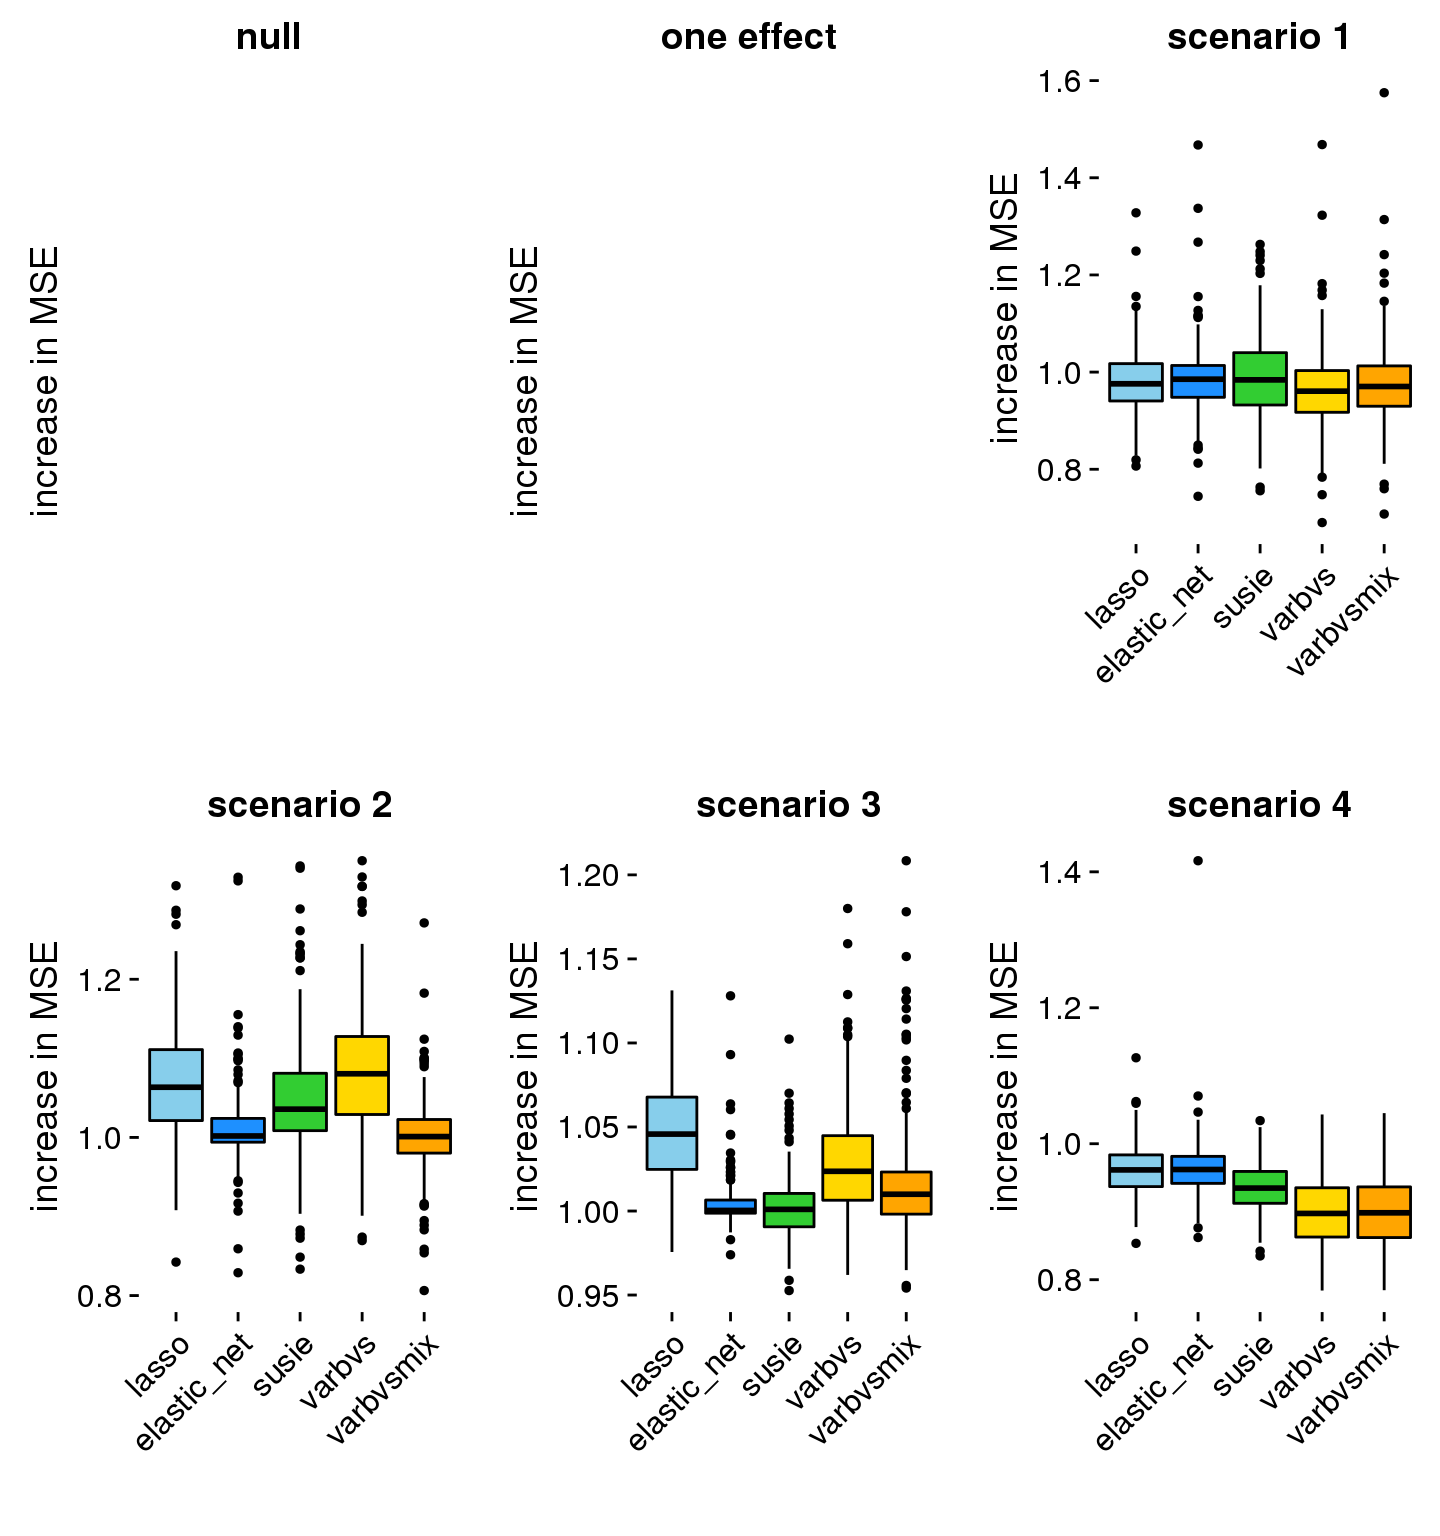
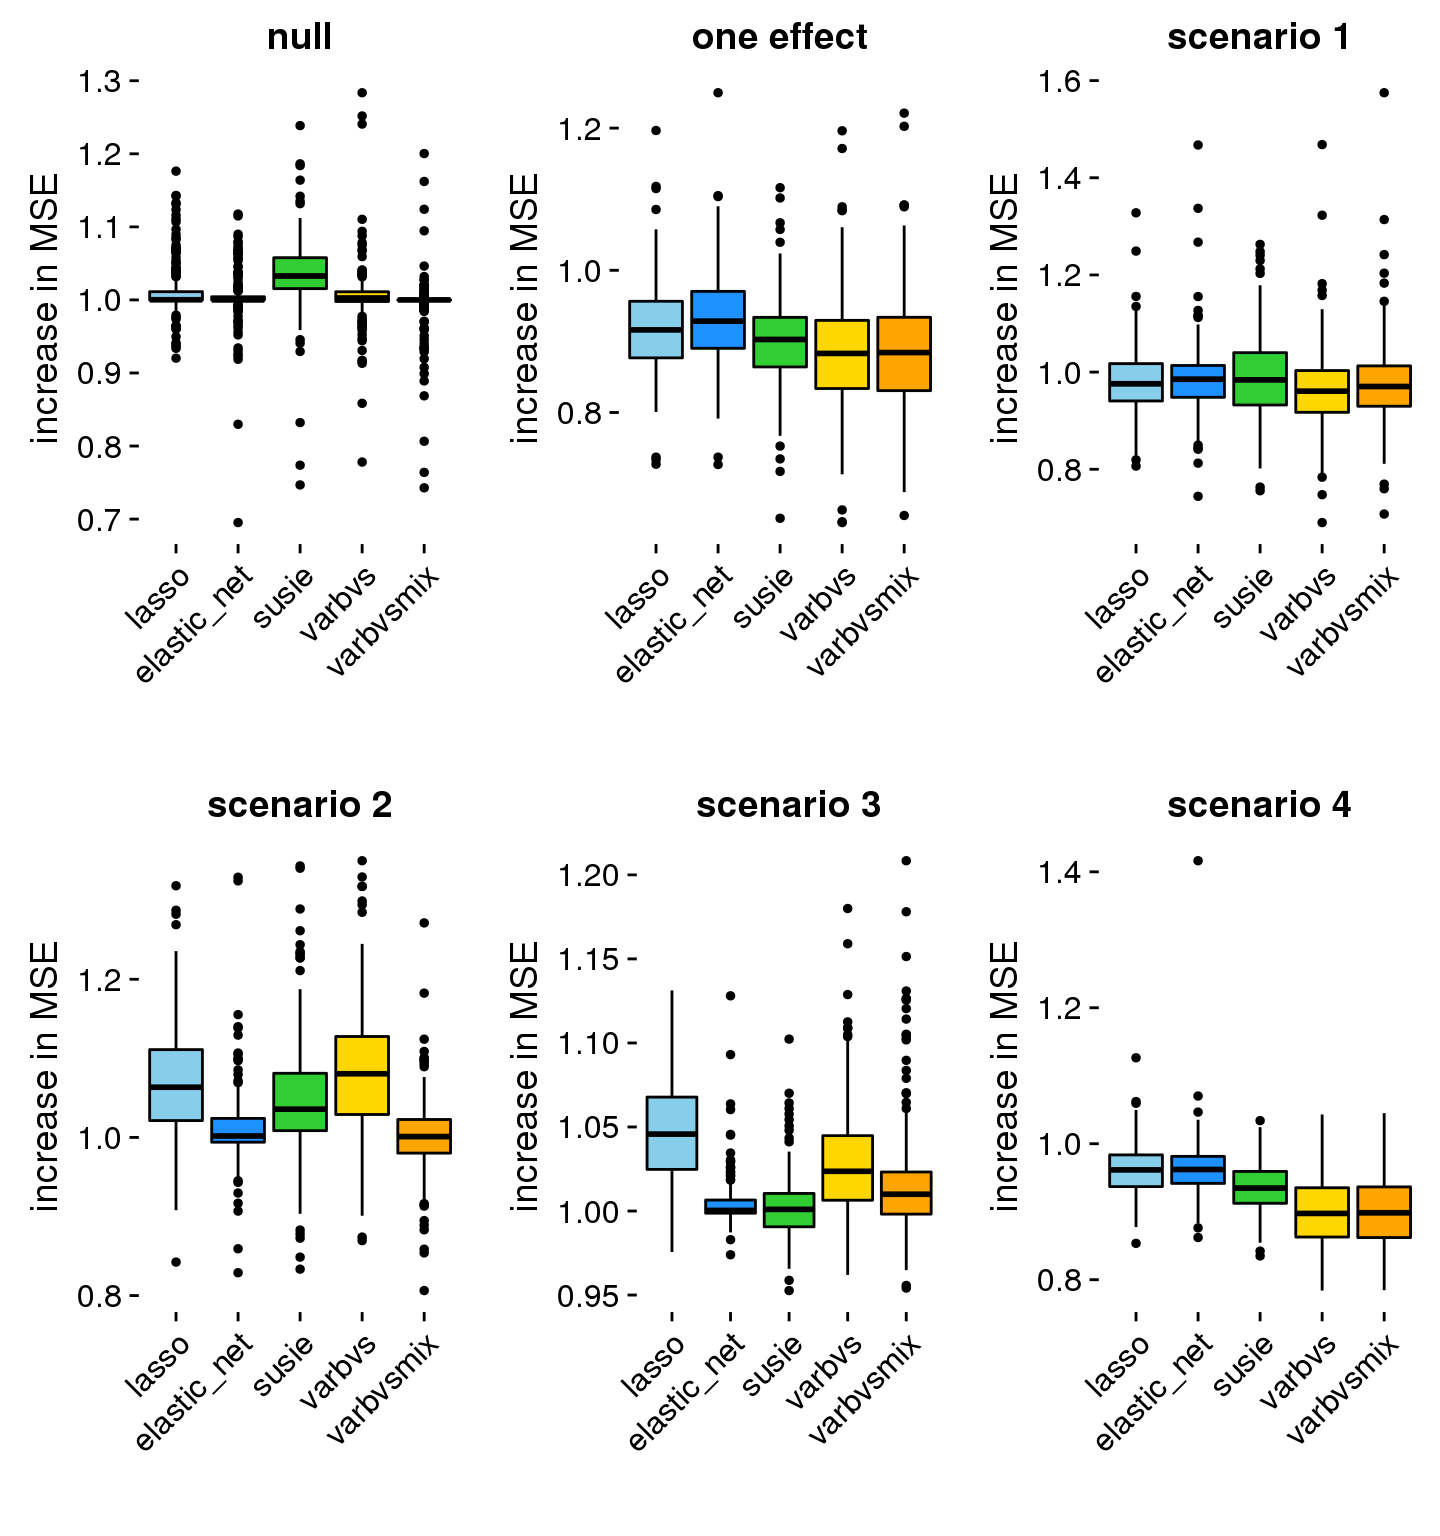
Fixed up a couple mistakes with dscquery call in results_overview (correctly, this time!).

diff --git a/docs/results_overview.html b/docs/results_overview.html
@@ -322,10 +322,10 @@ This reproducible <a href="http://rmarkdown.rstudio.com">R Markdown</a> analysis
 <div class="panel panel-default">
 <div class="panel-heading">
 <p class="panel-title">
-<a data-toggle="collapse" data-parent="#workflowr-checks" href="#strongRepositoryversionstrongahrefhttpsgithubcomstephenslabdsclinregtree2d4cb6ab518e982f4f0d3dbcd90824f80f222465targetblank2d4cb6aa"> <span class="glyphicon glyphicon-ok text-success" aria-hidden="true"></span> <strong>Repository version:</strong> <a href="https://github.com/stephenslab/dsc-linreg/tree/2d4cb6ab518e982f4f0d3dbcd90824f80f222465" target="_blank">2d4cb6a</a> </a>
+<a data-toggle="collapse" data-parent="#workflowr-checks" href="#strongRepositoryversionstrongahrefhttpsgithubcomstephenslabdsclinregtree6f9f6d3e03b063073ca6edcd6d1b50ab55c19325targetblank6f9f6d3a"> <span class="glyphicon glyphicon-ok text-success" aria-hidden="true"></span> <strong>Repository version:</strong> <a href="https://github.com/stephenslab/dsc-linreg/tree/6f9f6d3e03b063073ca6edcd6d1b50ab55c19325" target="_blank">6f9f6d3</a> </a>
 </p>
 </div>
[2 lines of base64/hex data omitted]
 <div class="panel-body">
 <p>
 Great! You are using Git for version control. Tracking code development and connecting the code version to the results is critical for reproducibility. The version displayed above was the version of the Git repository at the time these results were generated. <br><br> Note that you need to be careful to ensure that all relevant files for the analysis have been committed to Git prior to generating the results (you can use <code>wflow_publish</code> or <code>wflow_git_commit</code>). workflowr only checks the R Markdown file, but you know if there are other scripts or data files that it depends on. Below is the status of the Git repository when the results were generated:
@@ -337,9 +337,6 @@ Ignored files:
     Ignored:    dsc/.sos/
     Ignored:    dsc/linreg.html
     Ignored:    dsc/linreg/
-
-Unstaged changes:
-    Modified:   output/linreg_mse.csv
 
 </code></pre>
 <p>
@@ -378,6 +375,40 @@ Message
 </tr>
 </thead>
 <tbody>
+<tr>
+<td>
+Rmd
+</td>
+<td>
+<a href="https://github.com/stephenslab/dsc-linreg/blob/6f9f6d3e03b063073ca6edcd6d1b50ab55c19325/analysis/results_overview.Rmd" target="_blank">6f9f6d3</a>
+</td>
+<td>
+Peter Carbonetto
+</td>
+<td>
+2020-02-11
+</td>
+<td>
+wflow_publish(“results_overview.Rmd”)
+</td>
+</tr>
+<tr>
+<td>
+html
+</td>
+<td>
+<a href="https://rawcdn.githack.com/stephenslab/dsc-linreg/a76c938e1df9c4b5bdf6ea08ec0d093121628fce/docs/results_overview.html" target="_blank">a76c938</a>
+</td>
+<td>
+Peter Carbonetto
+</td>
+<td>
+2020-02-11
+</td>
+<td>
+Fixed another couple mistakes in the dscquery call in results_overview.
+</td>
+</tr>
 <tr>
 <td>
 html
@@ -1044,36 +1075,35 @@ source(&quot;../code/plots.R&quot;)</code></pre>
 <div id="import-dsc-results" class="section level2">
 <h2>Import DSC results</h2>
 <p>Here we use function “dscquery” from the dscrutils package to extract the DSC results we are interested in—the mean squared error in the predictions from each method and in each simulation scenario.</p>
-<pre class="r"><code>library(dscrutils)
-methods &lt;- c(&quot;ridge&quot;,&quot;lasso&quot;,&quot;elastic_net&quot;,&quot;susie&quot;,&quot;varbvs&quot;,&quot;varbvsmix&quot;)
-dsc &lt;- dscquery(&quot;../dsc/linreg&quot;,
-                c(&quot;simulate&quot;,&quot;simulate.scenario&quot;,&quot;fit&quot;,&quot;mse.err&quot;),
-                verbose = FALSE)
+<pre class="r"><code>methods &lt;- c(&quot;ridge&quot;,&quot;lasso&quot;,&quot;elastic_net&quot;,&quot;susie&quot;,&quot;varbvs&quot;,&quot;varbvsmix&quot;)
+dsc &lt;- dscquery(&quot;../dsc/linreg&quot;,c(&quot;simulate&quot;,&quot;fit&quot;,&quot;mse.err&quot;),
+                &quot;simulate.scenario&quot;,verbose = FALSE)
 dsc &lt;- transform(dsc,
-                 simulate = factor(simulate),
-                 fit      = factor(fit,methods))
+                 simulate          = factor(simulate),
+                 simulate.scenario = factor(simulate.scenario),
+                 fit               = factor(fit,methods))
 names(dsc)[1] &lt;- &quot;seed&quot;
 nrow(dsc)
-# [1] 4800</code></pre>
-<p>After this call, the “dsc” data frame should contain results for 720 pipelines—6 methods times 6 scenarios times 20 data sets simulated in each scenario.</p>
+# [1] 7200</code></pre>
+<p>After this call, the “dsc” data frame should contain results for 7,200 pipelines—6 methods times 6 scenarios times 200 data sets simulated in each scenario.</p>
 <pre class="r"><code>nrow(dsc)
-# [1] 4800</code></pre>
+# [1] 7200</code></pre>
 <p>After these steps, the “dsc” data frame should have five columns: “seed”, the seed used to simulate the data; “simulate”, the data simulation module used; “simulate.scenario”, the particular scenario used in the “zh” simulation module; “fit”, the linear regression method used; and “mse.err”, the mean squared error in the test set predictions.</p>
 <pre class="r"><code>head(dsc)
-#   seed simulate simulate.scenario simulate.output.file   fit
-# 1    1       zh                 1              zh/zh_1 ridge
-# 2    1       zh                 2              zh/zh_2 ridge
-# 3    1       zh                 3              zh/zh_3 ridge
-# 4    1       zh                 4              zh/zh_4 ridge
-# 5    2       zh                 1              zh/zh_5 ridge
-# 6    2       zh                 2              zh/zh_6 ridge
-#      fit.output.file   mse.err
-# 1 ridge/zh_1_ridge_1  15.80111
-# 2 ridge/zh_2_ridge_1  13.84921
-# 3 ridge/zh_3_ridge_1 226.41832
-# 4 ridge/zh_4_ridge_1 250.34996
-# 5 ridge/zh_5_ridge_1  13.05286
-# 6 ridge/zh_6_ridge_1  13.12446</code></pre>
+#   seed     simulate simulate.scenario        simulate.output.file   fit
+# 1    1 null_effects              &lt;NA&gt; null_effects/null_effects_1 ridge
+# 2    2 null_effects              &lt;NA&gt; null_effects/null_effects_2 ridge
+# 3    3 null_effects              &lt;NA&gt; null_effects/null_effects_3 ridge
+# 4    4 null_effects              &lt;NA&gt; null_effects/null_effects_4 ridge
+# 5    5 null_effects              &lt;NA&gt; null_effects/null_effects_5 ridge
+# 6    6 null_effects              &lt;NA&gt; null_effects/null_effects_6 ridge
+#                fit.output.file   mse.err
+# 1 ridge/null_effects_1_ridge_1 12.322653
+# 2 ridge/null_effects_2_ridge_1 12.695073
+# 3 ridge/null_effects_3_ridge_1 10.625812
+# 4 ridge/null_effects_4_ridge_1 10.267211
+# 5 ridge/null_effects_5_ridge_1 10.429469
+# 6 ridge/null_effects_6_ridge_1  9.940155</code></pre>
 <p>Note that you will need to run the DSC before querying the results; see <a href="usage_instructions.html">here</a> for instructions on running the DSC. If you did not run the DSC to generate these results, you can replace the dscquery call above by this line to load the pre-extracted results stored in a CSV file:</p>
 <pre class="r"><code>dsc &lt;- read.csv(&quot;../output/linreg_mse.csv&quot;)</code></pre>
 <p>This is how the CSV file was created:</p>
